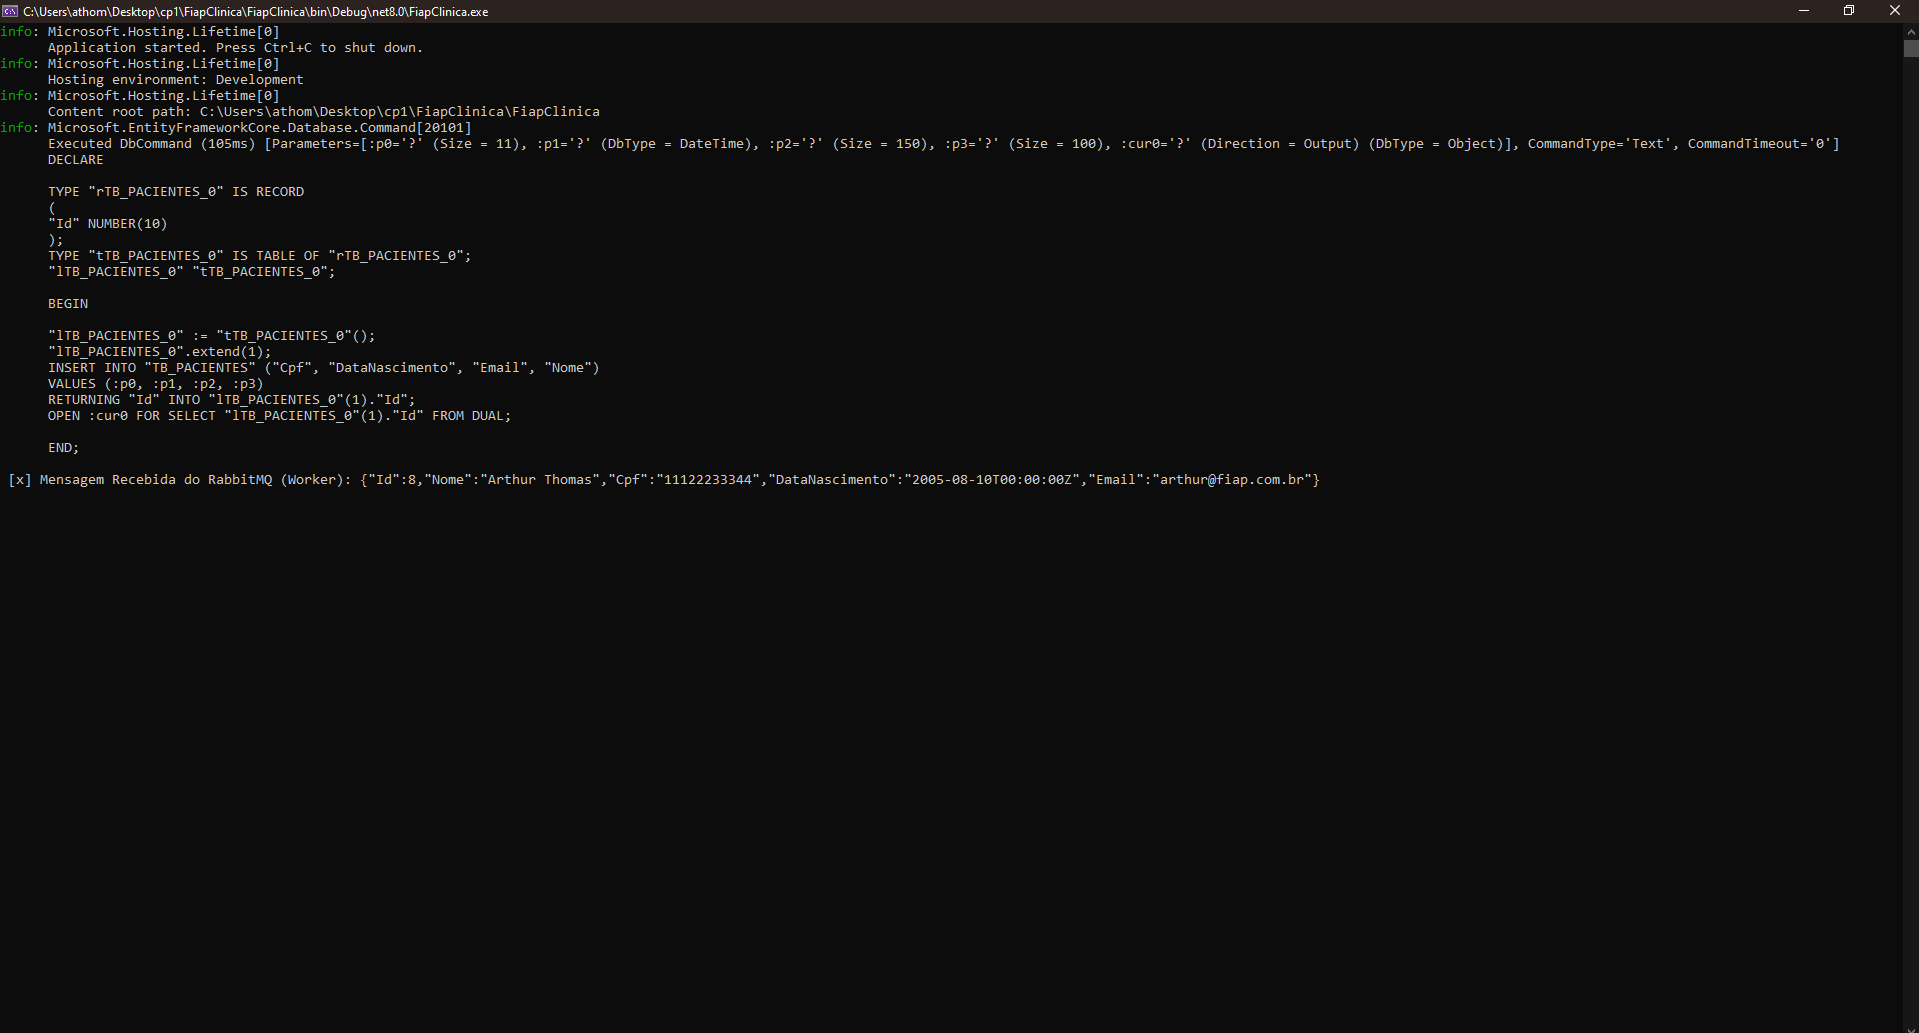
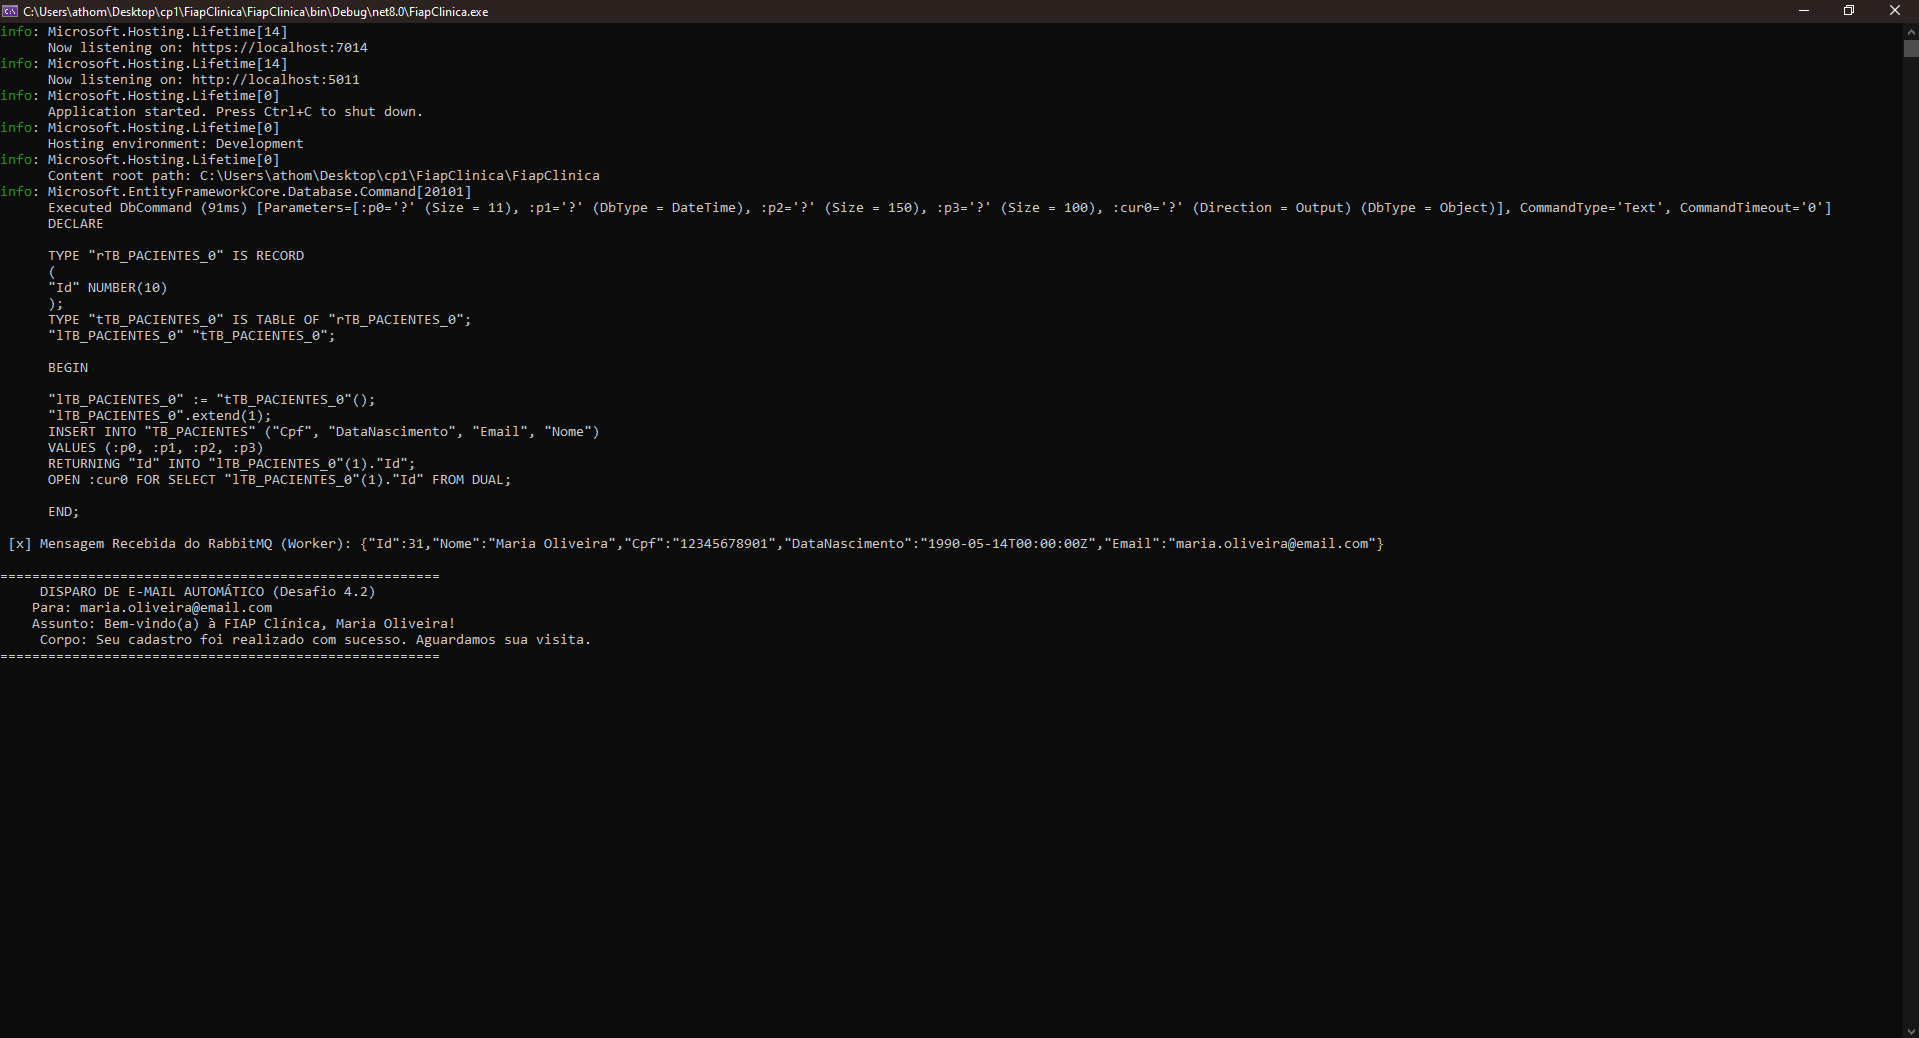
feat: implementa consumer com logica simulando envio de email (Desafio 4.2)

diff --git a/FiapClinica/Messaging/RabbitMqConsumer.cs b/FiapClinica/Messaging/RabbitMqConsumer.cs
@@ -2,6 +2,8 @@
 using RabbitMQ.Client;
 using RabbitMQ.Client.Events;
 using System.Text;
+using System.Text.Json;
+using FiapClinica.Models;
 
 namespace FiapClinica.Messaging;
 
@@ -48,6 +50,23 @@ public class RabbitMqConsumer : BackgroundService
             var message = Encoding.UTF8.GetString(body);
 
             Console.WriteLine($"\n [x] Mensagem Recebida do RabbitMQ (Worker): {message}");
+
+            //Desafio Extra 4.2 Lógica de E-mail
+            try
+            {
+                var paciente = JsonSerializer.Deserialize<Paciente>(message, new JsonSerializerOptions { PropertyNameCaseInsensitive = true });
+
+                Console.WriteLine("\n=======================================================");
+                Console.WriteLine("     DISPARO DE E-MAIL AUTOMÁTICO (Desafio 4.2)");
+                Console.WriteLine($"    Para: {paciente?.Email}");
+                Console.WriteLine($"    Assunto: Bem-vindo(a) à FIAP Clínica, {paciente?.Nome}!");
+                Console.WriteLine("     Corpo: Seu cadastro foi realizado com sucesso. Aguardamos sua visita.");
+                Console.WriteLine("=======================================================\n");
+            }
+            catch (Exception ex)
+            {
+                Console.WriteLine($"\n [x] Erro ao processar lógica do e-mail no consumer: {ex.Message}");
+            }
 
             _channel.BasicAck(deliveryTag: ea.DeliveryTag, multiple: false);
         };
